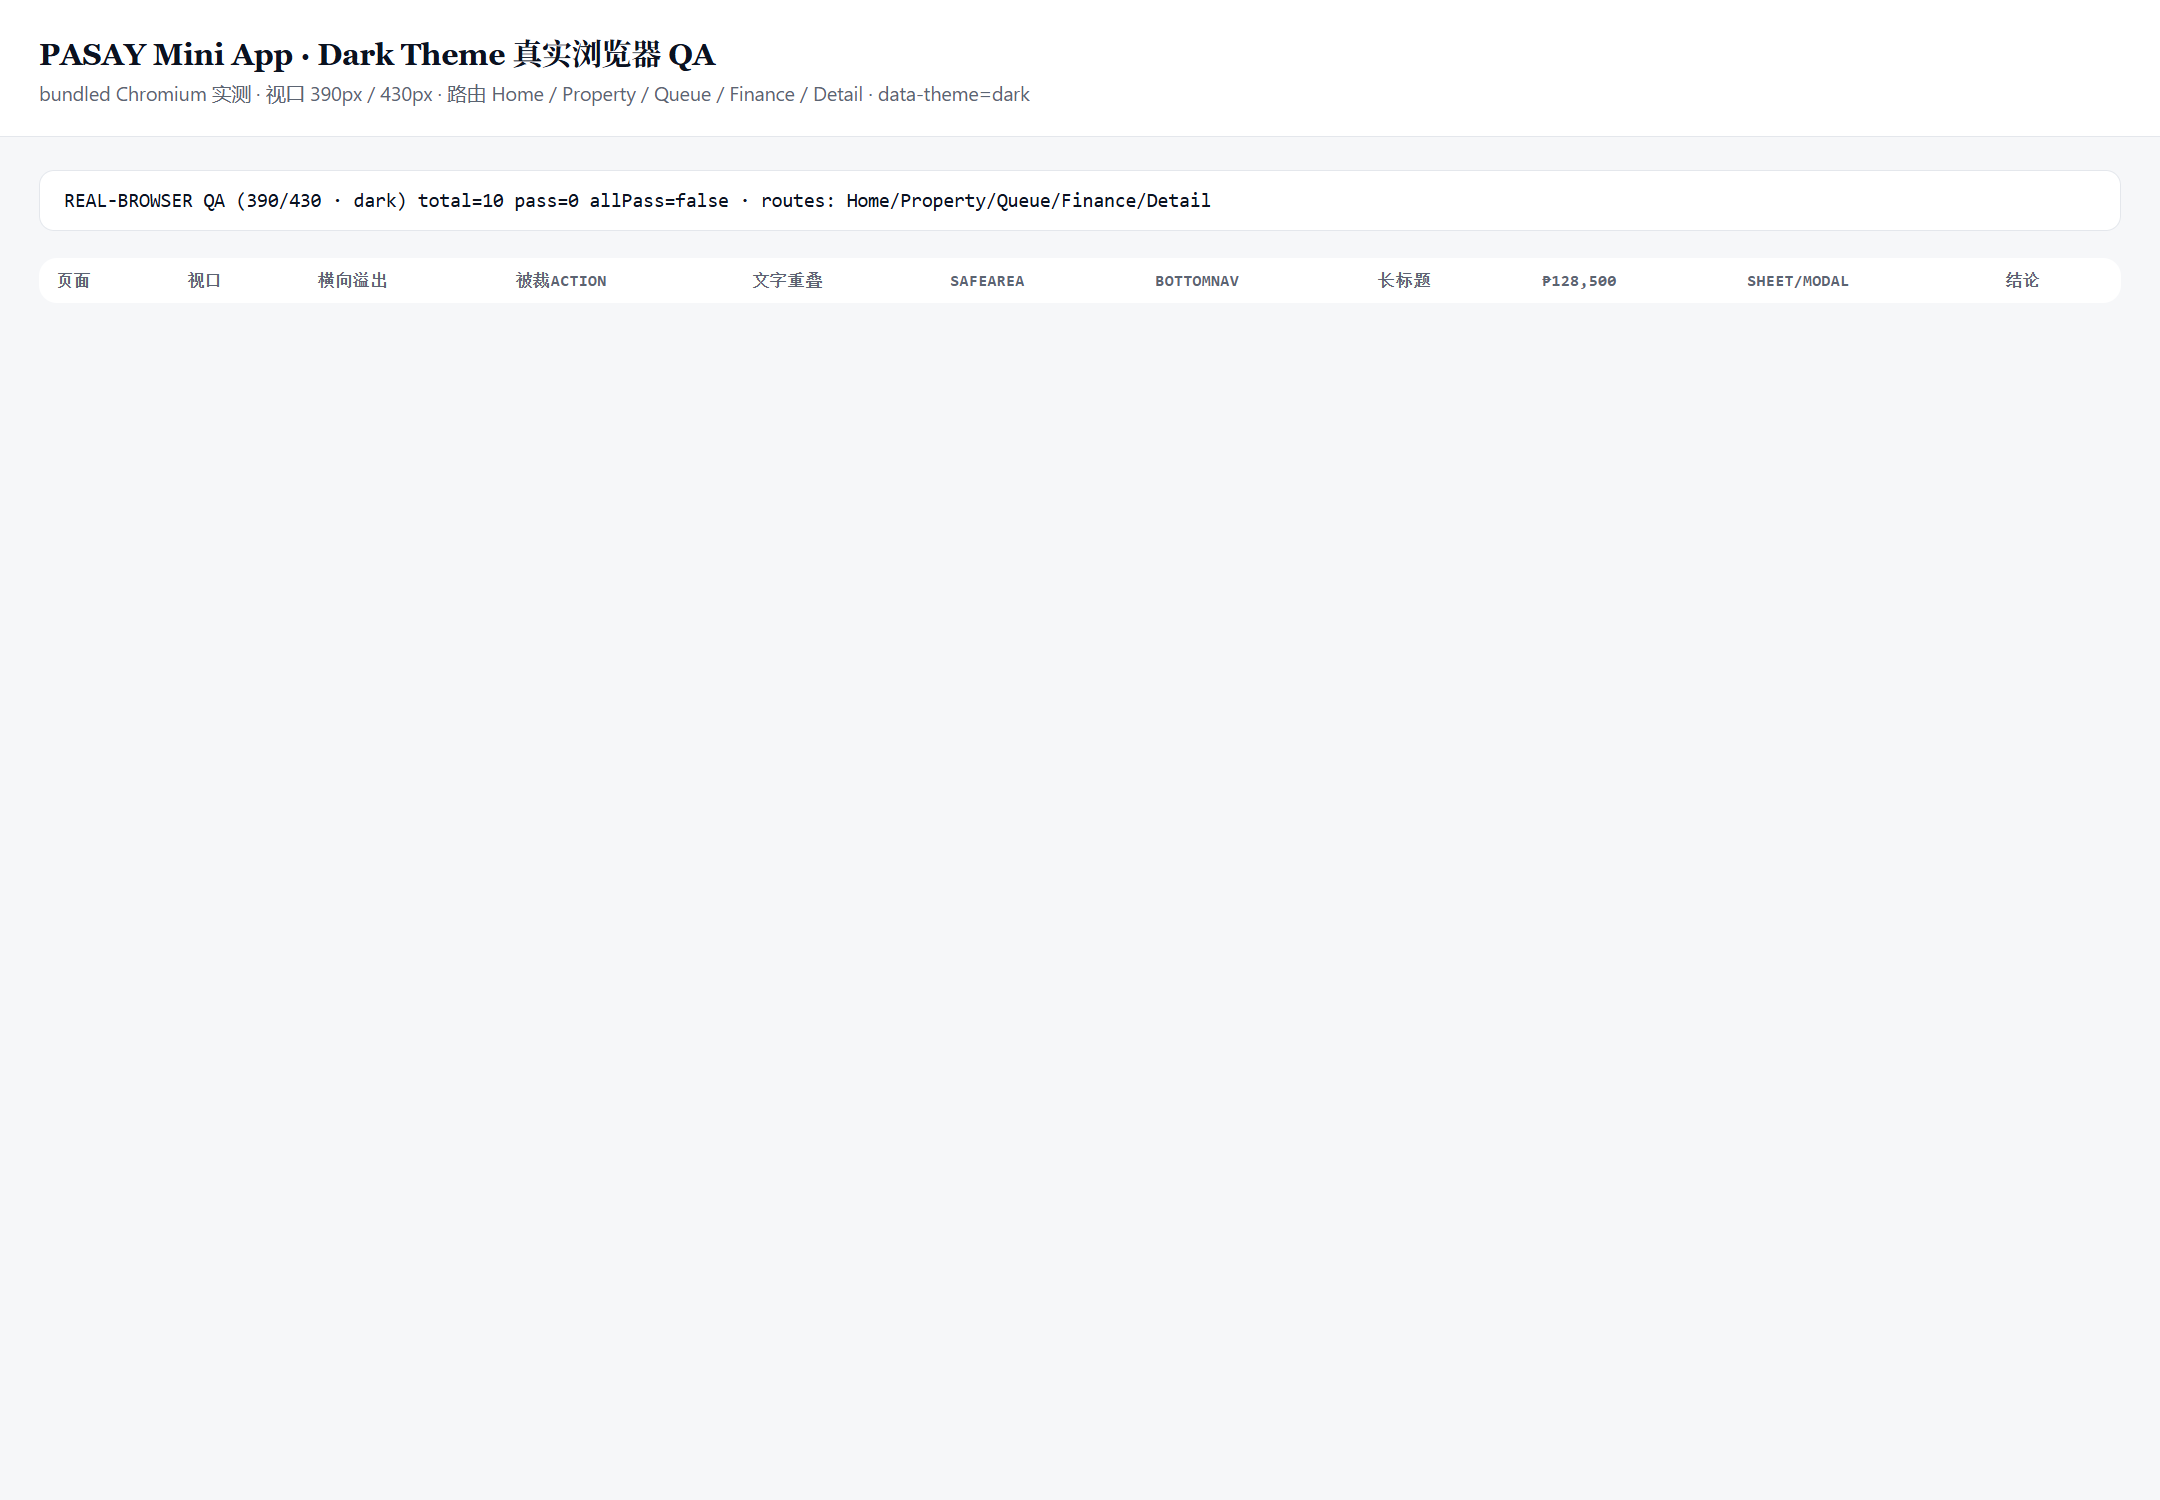
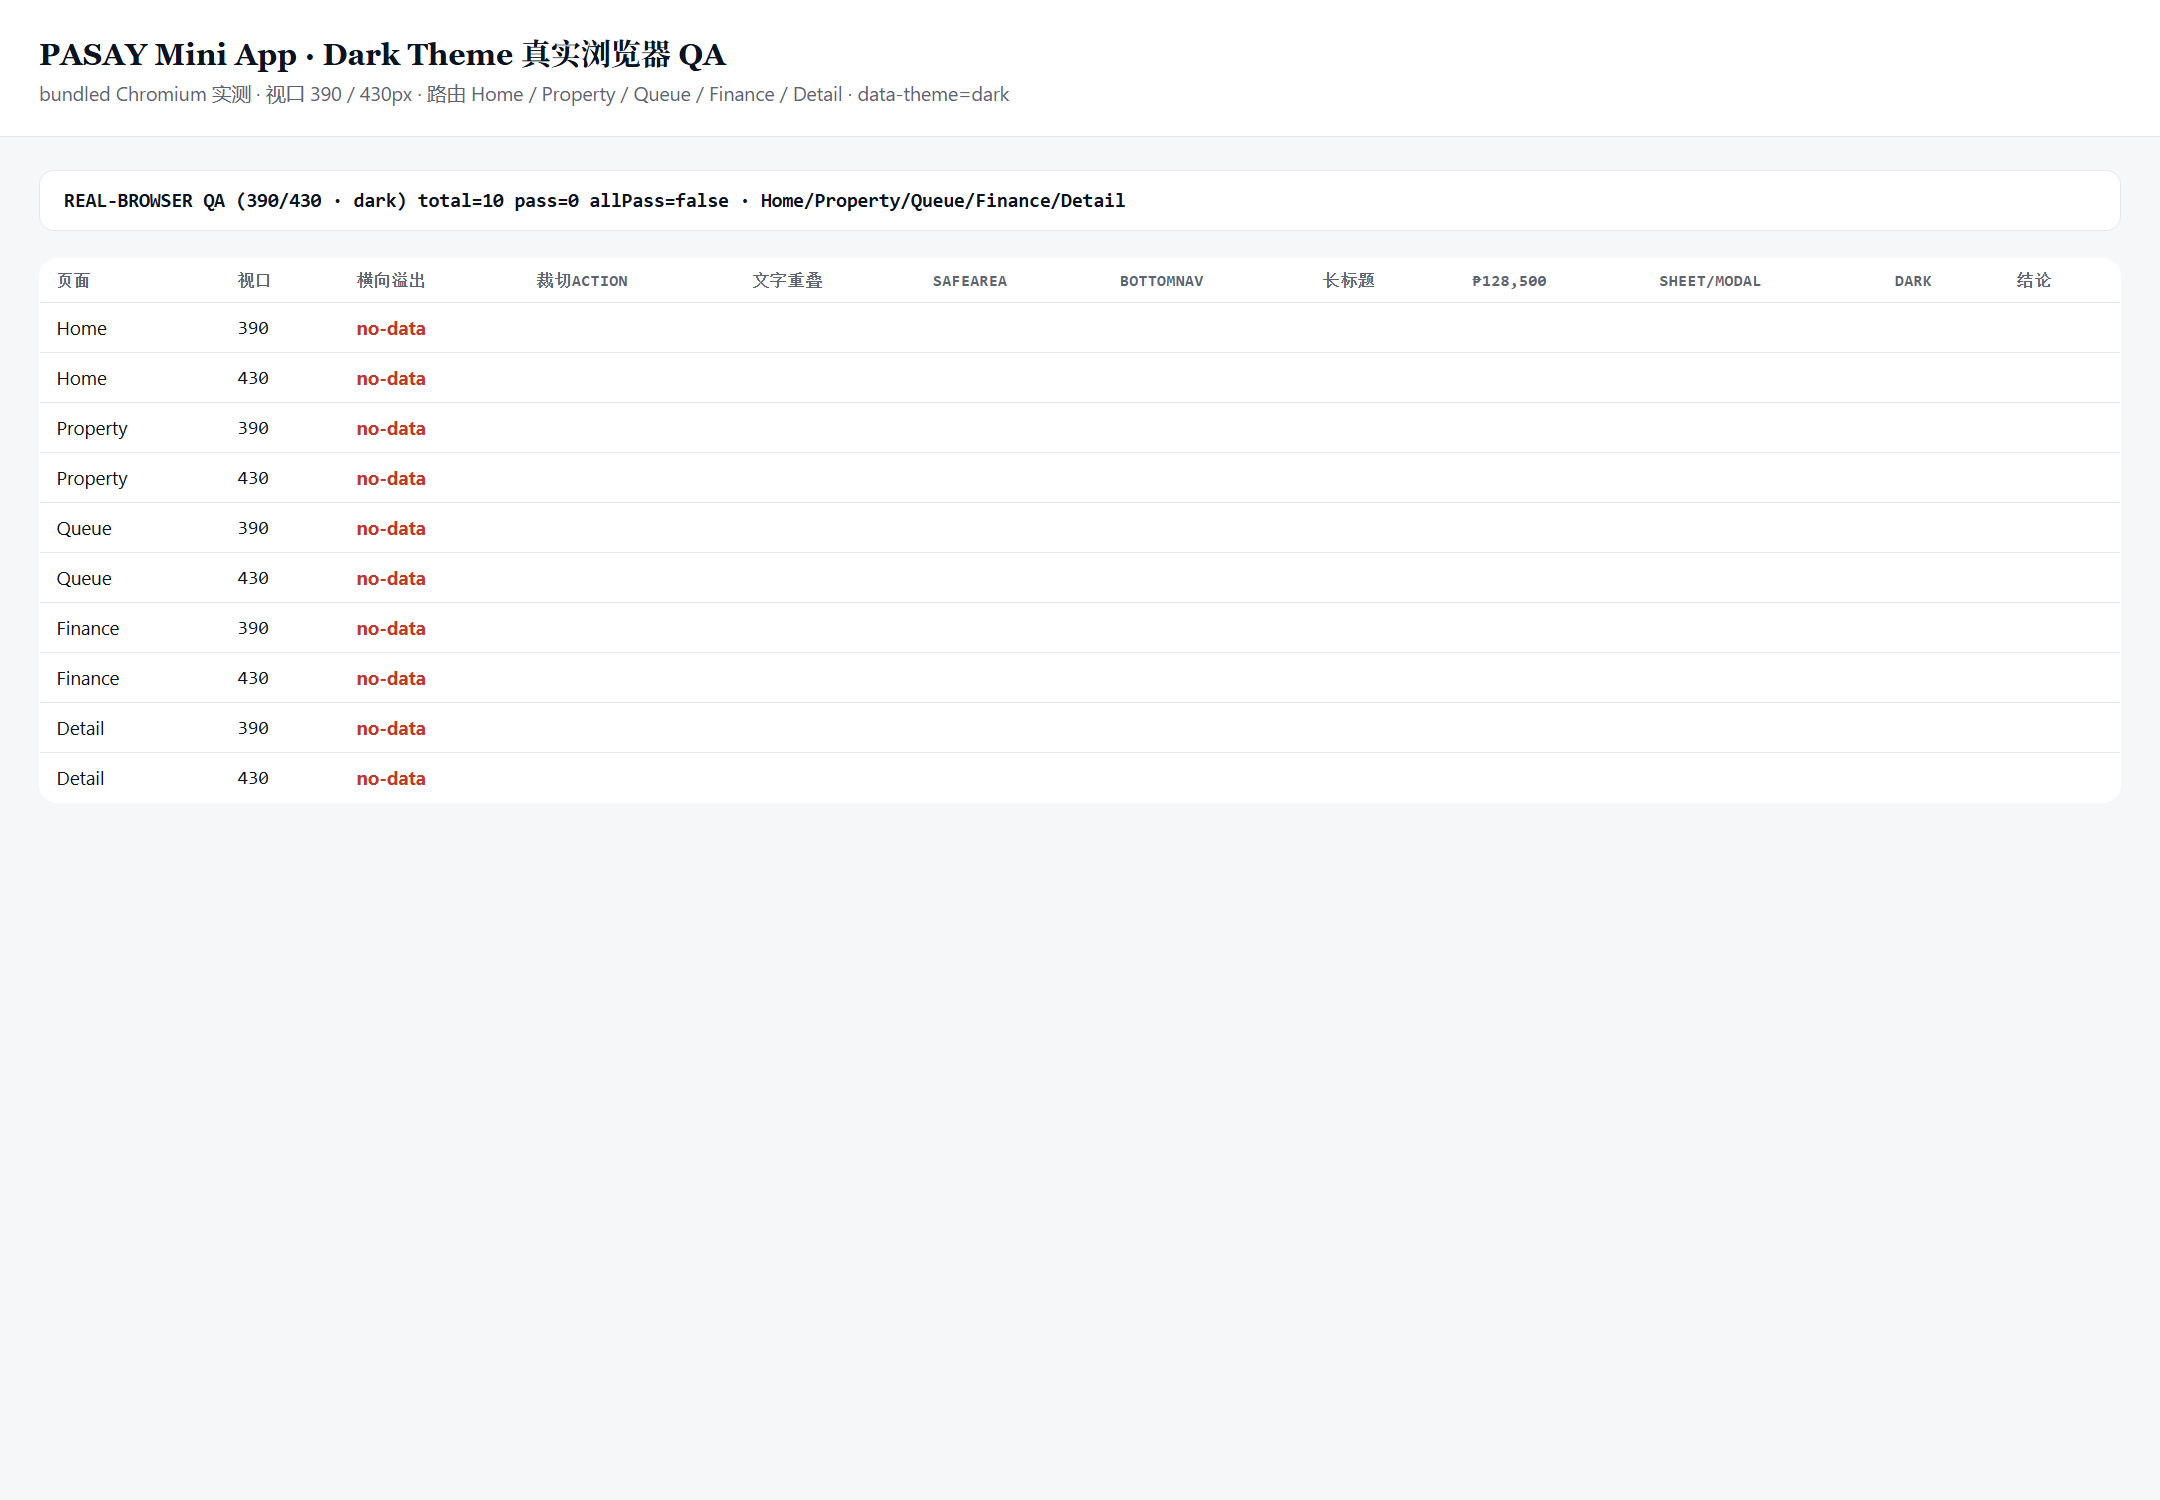
chore(opendesign): auto sync 2026-08-22 10:14:10

diff --git a/pasay-dark-qa-390-430.html b/pasay-dark-qa-390-430.html
@@ -5,129 +5,111 @@
 <meta name="viewport" content="width=device-width, initial-scale=1" />
 <title>PASAY Dark · Real Browser QA 390/430</title>
 <style>
-  :root { --fg:#0b1220; --mut:#5b6472; --ok:#0a7d43; --bad:#c0392b; --line:#e4e7ec; --accent:#2f6bff; }
-  * { box-sizing: border-box; }
+  :root { --fg:#0b1220; --mut:#5b6472; --ok:#0a7d43; --bad:#c0392b; --line:#e4e7ec; }
+  * { box-sizing:border-box; }
   body { margin:0; font-family:-apple-system,BlinkMacSystemFont,'Segoe UI',system-ui,sans-serif; color:var(--fg); background:#f6f7f9; }
   header { padding:20px 26px; border-bottom:1px solid var(--line); background:#fff; }
-  h1 { font-size:20px; margin:0 0 4px; font-family:Georgia,serif; letter-spacing:-.01em; }
+  h1 { font-size:20px; margin:0 0 4px; font-family:Georgia,serif; }
   header p { margin:0; color:var(--mut); font-size:13px; }
-  .wrap { padding:22px 26px 60px; }
-  #summary { font-family:ui-monospace,Menlo,Consolas,monospace; font-size:13px; padding:12px 16px; border-radius:10px; background:#fff; border:1px solid var(--line); margin-bottom:18px; }
+  .wrap { padding:22px 26px 40px; }
+  #summary { font-family:ui-monospace,Menlo,Consolas,monospace; font-size:13px; padding:12px 16px; border-radius:10px; background:#fff; border:1px solid var(--line); margin-bottom:18px; font-weight:700; }
   table { width:100%; border-collapse:collapse; background:#fff; border:1px solid var(--line); border-radius:12px; overflow:hidden; font-size:12.5px; }
   th,td { text-align:left; padding:8px 11px; border-bottom:1px solid var(--line); }
   th { font-family:ui-monospace,Menlo,Consolas,monospace; font-size:10.5px; text-transform:uppercase; letter-spacing:.04em; color:var(--mut); }
   td.mono { font-family:ui-monospace,Menlo,Consolas,monospace; }
   .P { color:var(--ok); font-weight:700; } .F { color:var(--bad); font-weight:700; }
-  .rig { position:fixed; left:-9999px; top:0; }  /* offscreen measurement rig */
+  .rigs { position:absolute; left:-99999px; top:0; }
+  .rigs iframe { border:0; }
 </style>
 </head>
 <body>
 <header>
   <h1>PASAY Mini App · Dark Theme 真实浏览器 QA</h1>
-  <p>bundled Chromium 实测 · 视口 390px / 430px · 路由 Home / Property / Queue / Finance / Detail · data-theme=dark</p>
+  <p>bundled Chromium 实测 · 视口 390 / 430px · 路由 Home / Property / Queue / Finance / Detail · data-theme=dark</p>
 </header>
 <div class="wrap">
   <div id="summary">running…</div>
   <table id="tbl"><thead><tr>
-    <th>页面</th><th>视口</th><th>横向溢出</th><th>被裁action</th><th>文字重叠</th><th>SafeArea</th><th>BottomNav</th><th>长标题</th><th>₱128,500</th><th>Sheet/Modal</th><th>结论</th>
-  </tr></thead><tbody></tbody></table>
+    <th>页面</th><th>视口</th><th>横向溢出</th><th>裁切action</th><th>文字重叠</th><th>SafeArea</th><th>BottomNav</th><th>长标题</th><th>₱128,500</th><th>Sheet/Modal</th><th>Dark</th><th>结论</th>
+  </tr></thead><tbody id="tb"></tbody></table>
 </div>
 
-<!-- offscreen rig: two sized iframes we resize per test -->
-<div class="rig"><iframe id="rig" title="rig"></iframe></div>
+<div class="rigs" id="rigs"></div>
 
 <script>
-const ROUTES = [
-  ['Home','#/home'],
-  ['Property','#/props'],
-  ['Queue','#/ops'],
-  ['Finance','#/finance'],
-  ['Detail','#/property/1608']  // real Property Detail route (not More)
-];
-const WIDTHS = [390, 430];
-const APP = 'pasay-mini-app.html';
-const rig = document.getElementById('rig');
-const tbody = document.querySelector('#tbl tbody');
-let rows = [], allPass = true;
+const ROUTES = [['Home','#/home'],['Property','#/props'],['Queue','#/ops'],['Finance','#/finance'],['Detail','#/property/1608']];
+const WIDTHS = [390,430];
+const APP='pasay-mini-app.html';
+const results = {}; let total = ROUTES.length*WIDTHS.length; let done = 0;
 
-function measure(doc, win, vw) {
-  const de = doc.documentElement, body = doc.body;
-  const scrollW = Math.max(de.scrollWidth, body ? body.scrollWidth : 0);
-  const overflow = scrollW > vw + 1;  // horizontal overflow
-  // clipped action: any .btn/.fab/.iconb whose right edge exceeds viewport or width<8
-  let clipped = false;
+function measure(doc, vw){
+  const de=doc.documentElement, body=doc.body;
+  const scrollW=Math.max(de.scrollWidth, body?body.scrollWidth:0);
+  const overflow = scrollW > vw+1;
+  let clipped=false;
   doc.querySelectorAll('.btn,.fab,.iconb,.nav-i,.qa').forEach(function(el){
-    const r = el.getBoundingClientRect();
-    if (r.width > 0 && (r.right > vw + 1 || r.left < -1)) clipped = true;
+    const r=el.getBoundingClientRect();
+    if(r.width>0 && (r.right>vw+1 || r.left<-1)) clipped=true;
   });
-  // text overlap: sample rows/headings pairwise within same container for vertical overlap
-  let overlap = false;
-  const texts = Array.prototype.slice.call(doc.querySelectorAll('.row-l1 b,.h1,.h2,.tb-title,.kpi .kv,.money'));
-  for (let i=0;i<texts.length;i++){ for(let j=i+1;j<Math.min(texts.length,i+4);j++){
-    const a=texts[i].getBoundingClientRect(), b=texts[j].getBoundingClientRect();
-    if(a.width&&b.width&&a.left<b.right&&b.left<a.right&&a.top<b.bottom-2&&b.top<a.bottom-2){ overlap=true; }
-  }}
-  // safe area: nav padding-bottom uses env() — check .main padding-bottom present
-  const main = doc.querySelector('.main');
-  const safe = main ? (getComputedStyle(main).paddingBottom !== '0px') : false;
-  // bottom nav 5
-  const nav = doc.querySelectorAll('.nav .nav-i').length === 5;
-  // long title not clipped mid-word beyond ellipsis: tb-title has overflow ellipsis -> ok if exists
-  const tb = doc.querySelector('.tb-title');
-  const longTitle = tb ? (getComputedStyle(tb).textOverflow === 'ellipsis' || tb.scrollWidth <= tb.clientWidth + 1) : true;
-  // dark theme actually applied
-  const isDark = de.getAttribute('data-theme') === 'dark';
-  return { overflow, clipped, overlap, safe, nav, longTitle, isDark };
+  let overlap=false;
+  const T=[].slice.call(doc.querySelectorAll('.row-l1 b,.h1,.h2,.tb-title,.kpi .kv,.money'));
+  for(let i=0;i<T.length;i++)for(let j=i+1;j<Math.min(T.length,i+4);j++){
+    const a=T[i].getBoundingClientRect(),b=T[j].getBoundingClientRect();
+    if(a.width&&b.width&&a.left<b.right-1&&b.left<a.right-1&&a.top<b.bottom-2&&b.top<a.bottom-2) overlap=true;
+  }
+  const main=doc.querySelector('.main');
+  const safe = main ? getComputedStyle(main).paddingBottom!=='0px' : false;
+  const nav = doc.querySelectorAll('.nav .nav-i').length===5;
+  const tb=doc.querySelector('.tb-title');
+  const longTitle = tb ? (getComputedStyle(tb).textOverflow==='ellipsis' || tb.scrollWidth<=tb.clientWidth+1) : true;
+  const isDark = de.getAttribute('data-theme')==='dark';
+  const rs = getComputedStyle(de).getPropertyValue('--surface-raised').trim();
+  const sheetOk = rs.length>0;
+  const cur = (body?body.innerText:'').indexOf('128,500')!==-1;
+  return {overflow,clipped,overlap,safe,nav,longTitle,isDark,sheetOk,cur};
 }
 
-function hasCurrency(doc){ return (doc.body ? doc.body.innerText : '').indexOf('128,500') !== -1 || (doc.body?doc.body.innerHTML:'').indexOf('128,500')!==-1; }
+function paint(){
+  const tb=document.getElementById('tb'); tb.innerHTML='';
+  let pass=0;
+  ROUTES.forEach(function(rt){ WIDTHS.forEach(function(vw){
+    const key=rt[0]+'@'+vw; const m=results[key];
+    const tr=document.createElement('tr');
+    if(!m){ tr.innerHTML='<td>'+rt[0]+'</td><td class="mono">'+vw+'</td><td colspan="10" class="F">no-data</td>'; tb.appendChild(tr); return; }
+    const curReq = (rt[0]==='Finance'||rt[0]==='Detail'||rt[0]==='Home');
+    const curPass = curReq ? m.cur : true;
+    const ok = !m.overflow&&!m.clipped&&!m.overlap&&m.safe&&m.nav&&m.longTitle&&m.isDark&&m.sheetOk&&curPass;
+    if(ok) pass++;
+    function c(v){return '<td class="mono '+(v?'P':'F')+'">'+(v?'PASS':'FAIL')+'</td>';}
+    tr.innerHTML='<td>'+rt[0]+'</td><td class="mono">'+vw+'</td>'+c(!m.overflow)+c(!m.clipped)+c(!m.overlap)+c(m.safe)+c(m.nav)+c(m.longTitle)+c(curReq?m.cur:true)+c(m.sheetOk)+c(m.isDark)+'<td class="mono '+(ok?'P':'F')+'">'+(ok?'PASS':'FAIL')+'</td>';
+    tb.appendChild(tr);
+  });});
+  const allPass = pass===total;
+  document.getElementById('summary').textContent='REAL-BROWSER QA (390/430 · dark) total='+total+' pass='+pass+' allPass='+allPass+'  ·  Home/Property/Queue/Finance/Detail';
+  window.__QA_ALLPASS = allPass;
+}
 
-function runOne(idx, done){
-  if (idx >= ROUTES.length*WIDTHS.length) { done(); return; }
-  const ri = Math.floor(idx / WIDTHS.length), wi = idx % WIDTHS.length;
-  const [name, route] = ROUTES[ri]; const vw = WIDTHS[wi];
-  rig.style.width = vw + 'px'; rig.style.height = '820px';
-  rig.onload = function(){
-    try {
-      const win = rig.contentWindow, doc = rig.contentDocument;
+// build all rigs in parallel
+const rigsEl=document.getElementById('rigs');
+ROUTES.forEach(function(rt){ WIDTHS.forEach(function(vw){
+  const f=document.createElement('iframe');
+  f.style.width=vw+'px'; f.style.height='840px';
+  f.setAttribute('title', rt[0]+'@'+vw);
+  f.addEventListener('load', function(){
+    try{
+      const doc=f.contentDocument, win=f.contentWindow;
       doc.documentElement.setAttribute('data-theme','dark');
-      // force route + let app render
-      win.location.hash = route;
-      setTimeout(function(){
-        doc.documentElement.setAttribute('data-theme','dark');
-        // try opening a sheet/modal to validate raised surface exists in dark (Finance filter or a row)
-        let sheetOk = true;
-        try {
-          const m = measure(doc, win, vw);
-          const cur = (name==='Finance'||name==='Detail'||name==='Home') ? hasCurrency(doc) : true;
-          // sheet/modal: confirm CSS class defined + surface-raised token resolves
-          const rs = getComputedStyle(doc.documentElement).getPropertyValue('--surface-raised').trim();
-          sheetOk = rs.length > 0;
-          const pass = !m.overflow && !m.clipped && !m.overlap && m.safe && m.nav && m.longTitle && m.isDark && cur && sheetOk;
-          if(!pass) allPass=false;
-          rows.push({name,vw,m,cur,sheetOk,pass});
-          const tr=document.createElement('tr');
-          function c(v){return '<td class="mono '+(v?'P':'F')+'">'+(v?'PASS':'FAIL')+'</td>';}
-          tr.innerHTML='<td>'+name+'</td><td class="mono">'+vw+'</td>'
-            + c(!m.overflow)+c(!m.clipped)+c(!m.overlap)+c(m.safe)+c(m.nav)+c(m.longTitle)+c(cur)+c(sheetOk)
-            + '<td class="mono '+(pass?'P':'F')+'">'+(pass?'PASS':'FAIL')+'</td>';
-          tbody.appendChild(tr);
-        } catch(e){ allPass=false; const tr=document.createElement('tr'); tr.innerHTML='<td>'+name+'</td><td class="mono">'+vw+'</td><td colspan="9" class="F">ERR '+e.message+'</td>'; tbody.appendChild(tr); }
-        runOne(idx+1, done);
-      }, 260);
-    } catch(e){ allPass=false; runOne(idx+1, done); }
-  };
-  rig.src = APP + route;
-}
-
-runOne(0, function(){
-  const total = ROUTES.length*WIDTHS.length;
-  const pass = rows.filter(r=>r.pass).length;
-  document.getElementById('summary').textContent =
-    'REAL-BROWSER QA (390/430 · dark) total='+total+' pass='+pass+' allPass='+(allPass&&pass===total)
-    + '  ·  routes: Home/Property/Queue/Finance/Detail';
-  window.__QA_DONE = true; window.__QA_ALLPASS = (allPass && pass===total);
-});
+      // route already applied via src hash → app rendered synchronously before load fired.
+      // force a reflow read then measure synchronously (no async, so capture always sees data).
+      void doc.body.getBoundingClientRect();
+      try{ results[rt[0]+'@'+vw]=measure(doc,vw); }catch(e){ results[rt[0]+'@'+vw]={overflow:true,clipped:true,overlap:true,safe:false,nav:false,longTitle:false,isDark:false,sheetOk:false,cur:false}; }
+      done++; paint();
+    }catch(e){ done++; paint(); }
+  });
+  f.src=APP+rt[1];
+  rigsEl.appendChild(f);
+});});
+paint();
 </script>
 </body>
 </html>
